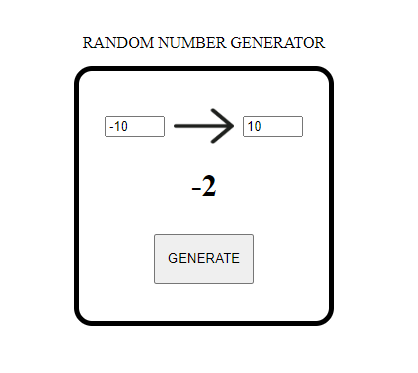
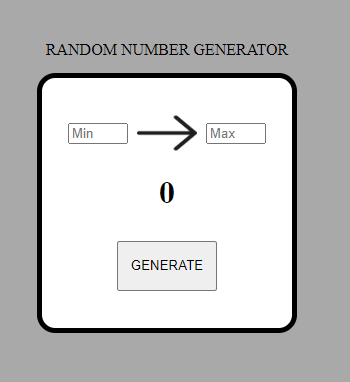
changed background color

diff --git a/style.css b/style.css
@@ -1,3 +1,6 @@
+body {
+    background-color: darkgray;
+}
 .range {
     width: 60px;
 }
@@ -9,6 +12,7 @@
     position: relative;
 }
 .hud {
+    background-color: white;
     width: 250px;
     height: 250px;
     position: absolute;
